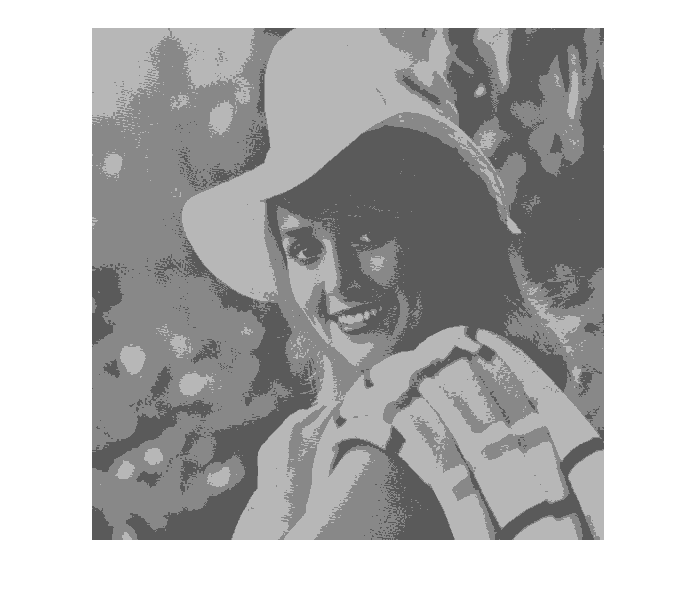
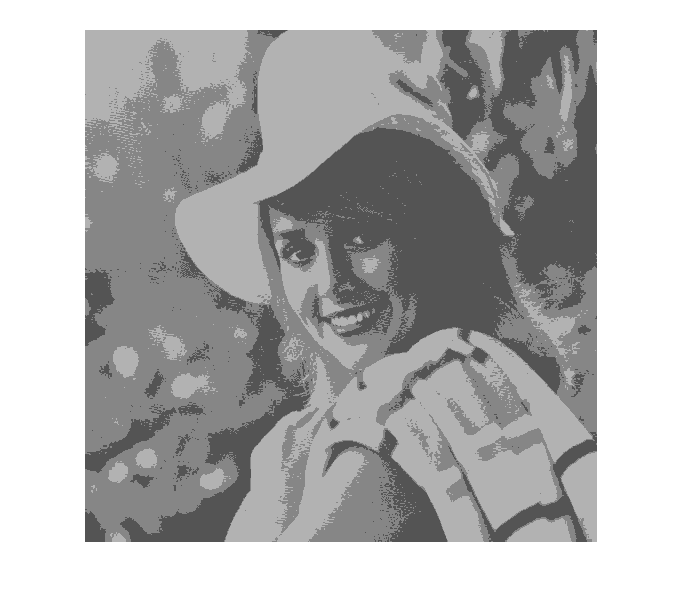
'ye'

diff --git a/PR-project/AFKM.m b/PR-project/AFKM.m
@@ -1,5 +1,5 @@
-%% Adaptive Fuzzy-K-means Clustering Algorithm
-clear; close all;
+%% FCM Matlab
+% clear; close all;
 
 % Parameters
 n_cluster = 3;
@@ -16,99 +16,11 @@ img = imread([data_dir file_name]);
 n_row = size(img, 1);
 n_col = size(img, 2);
 
-img = im2double(img);
+[Ifc, C] = adaptivefuzzycmeans(img, n_cluster, 15);
 
-%% K-means for initial center
-% Create centers
-max_v = max(max(img)); 
-min_v = min(min(img));
-
-centers = zeros(n_cluster, 1);
-for j = 1 : n_cluster
-    centers(j) = min_v + (2*j+1)*(max_v-min_v)/(2*n_cluster);
+for i = 1 : n_cluster
+    img(Ifc==i) = C(i);
 end
-% centers = min(centers, 1);
-
-
-%% AFKM
-old_centers = centers;
-
-loop = 0;
-while true
-    memberships = zeros(n_row, n_col, n_cluster);
-    loop = loop + 1;
-    fprintf('Loop:%d\n', loop);
-    % Find new distances
-    distances = abs( repmat(img, [1, 1, n_cluster])...
-        - repmat(reshape(centers, [1, 1, n_cluster]), [n_row n_col 1]) );
-
-    % Fix the case where distances(r, c, k) = 0
-    for r = 1 : n_row
-        for c = 1 : n_col
-            for j = 1 : n_cluster
-                d_sum = 0;
-                for k = 1 : n_cluster
-                    if distances(r, c, k)==0
-                        break;
-                    end
-                    d_sum = d_sum + ...
-                        (distances(r, c, j)/distances(r, c, k))...
-                        .^(2/(fuzziness-1));
-                end
-                memberships(r, c, j) = d_sum^-1;
-                for k = 1 : n_cluster
-                    if distances(r, c, k)==0
-                        memberships(r, c, :) = zeros([1, 1, n_cluster]);
-                        memberships(r, c, k) = 1;
-                        break;
-                    end
-                end
-            end
-        end
-    end
-
-    % Find belongingness
-    belongingnesses = zeros(n_cluster, 1);
-    for j = 1 : n_cluster
-        belongingnesses(j) = centers(j)/sum(sum(memberships(:, :, j))); 
-    end
-
-    % Find error term
-    norm_belongingnesses = belongingnesses./n_cluster;
-    e = belongingnesses - norm_belongingnesses;
-
-    % Update membership
-    for j = 1 : n_cluster
-        memberships(:, :, j) = memberships(:, :, j) + ...
-                update_rate * centers(j) * e(j);
-    end
-
-    % Update center
-    fprintf('Centers:\n');
-    for j = 1 : n_cluster
-        centers(j) = sum(sum(memberships(:, :, j).*img(:, :))) ...
-                        / sum(sum(memberships(:, :, j)));
-        fprintf('%.3f, ', centers(j));
-    end
-    fprintf('\n');
-
-    delta = mean(abs(old_centers - centers));
-    fprintf('delta: %f\n', delta);
-    
-    if delta < stopping_threshold
-        break;
-    end
-
-    old_centers = centers;
-end    
-
-%% Use the maximum membership as class label
-[val, ind] = max(memberships, [], 3);
-
-for j = 1 : n_cluster
-    img(ind==j) = centers(j);    
-end
-
 
 figure;
 imshow(img);

diff --git a/PR-project/adaptivefuzzycmeans.m b/PR-project/adaptivefuzzycmeans.m
@@ -31,7 +31,7 @@ while(TFcm<Tn)
     tmp = [];
     P = [];
     D=zeros(H,W,1);
-    
+    ic = c;
   for i=1:k  
     U=repmat(cc(i),H,W);
     c=cat(3,c,U);
@@ -65,11 +65,16 @@ while(TFcm<Tn)
     
     B = zeros(k, 1);
     for i = 1 : k
-        B(i) = c(i)./ sum(sum(M(:, :, i)));
+        B(i) = cc(i) / sum(sum(M(:, :, i)));
     end
     
+    NB = zeros(k, 1);
+    for i = 1 : k
+        NB(i) = cc(i) / sum(sum(M(:, :, i))) / sum(cc);
+    end    
+    
     for i=1:k        
-        M(:, :, i) = M(:, :, i) + 0.1 * (B(i)) * c(i);
+        M(:, :, i) = M(:, :, i) + 0.1 * (B(i) - NB(i)) * cc(i);
         CI(i)=sum(sum(M(:, :, i).*I))/sum(sum(M(:, :, i)));
     end
     

diff --git a/PR-project/FCM_matlab.m b/PR-project/FCM_matlab.m
@@ -16,7 +16,7 @@ img = imread([data_dir file_name]);
 n_row = size(img, 1);
 n_col = size(img, 2);
 
-[Ifc, C] = adaptivefuzzycmeans(img, n_cluster, 15);
+[Ifc, C] = fuzzycmeans(img, n_cluster, 15);
 
 for i = 1 : n_cluster
     img(Ifc==i) = C(i);
